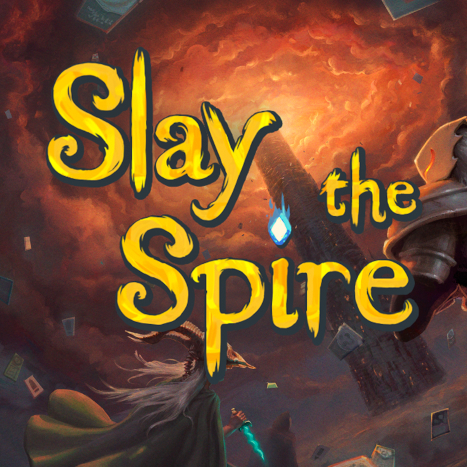
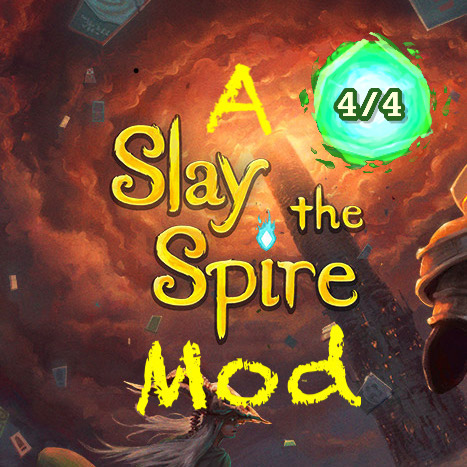
Updated image, manfiest, readme link.

diff --git a/README.md b/README.md
@@ -6,7 +6,7 @@ Feeling tired? Need more energy? Now you can start the game with four energy ins
 
 # Installation Instructions
 
-[Download from Steam Workshop]().
+[Download from Steam Workshop](https://steamcommunity.com/sharedfiles/filedetails/?id=2977410511).
 
 # Development Setup
 
